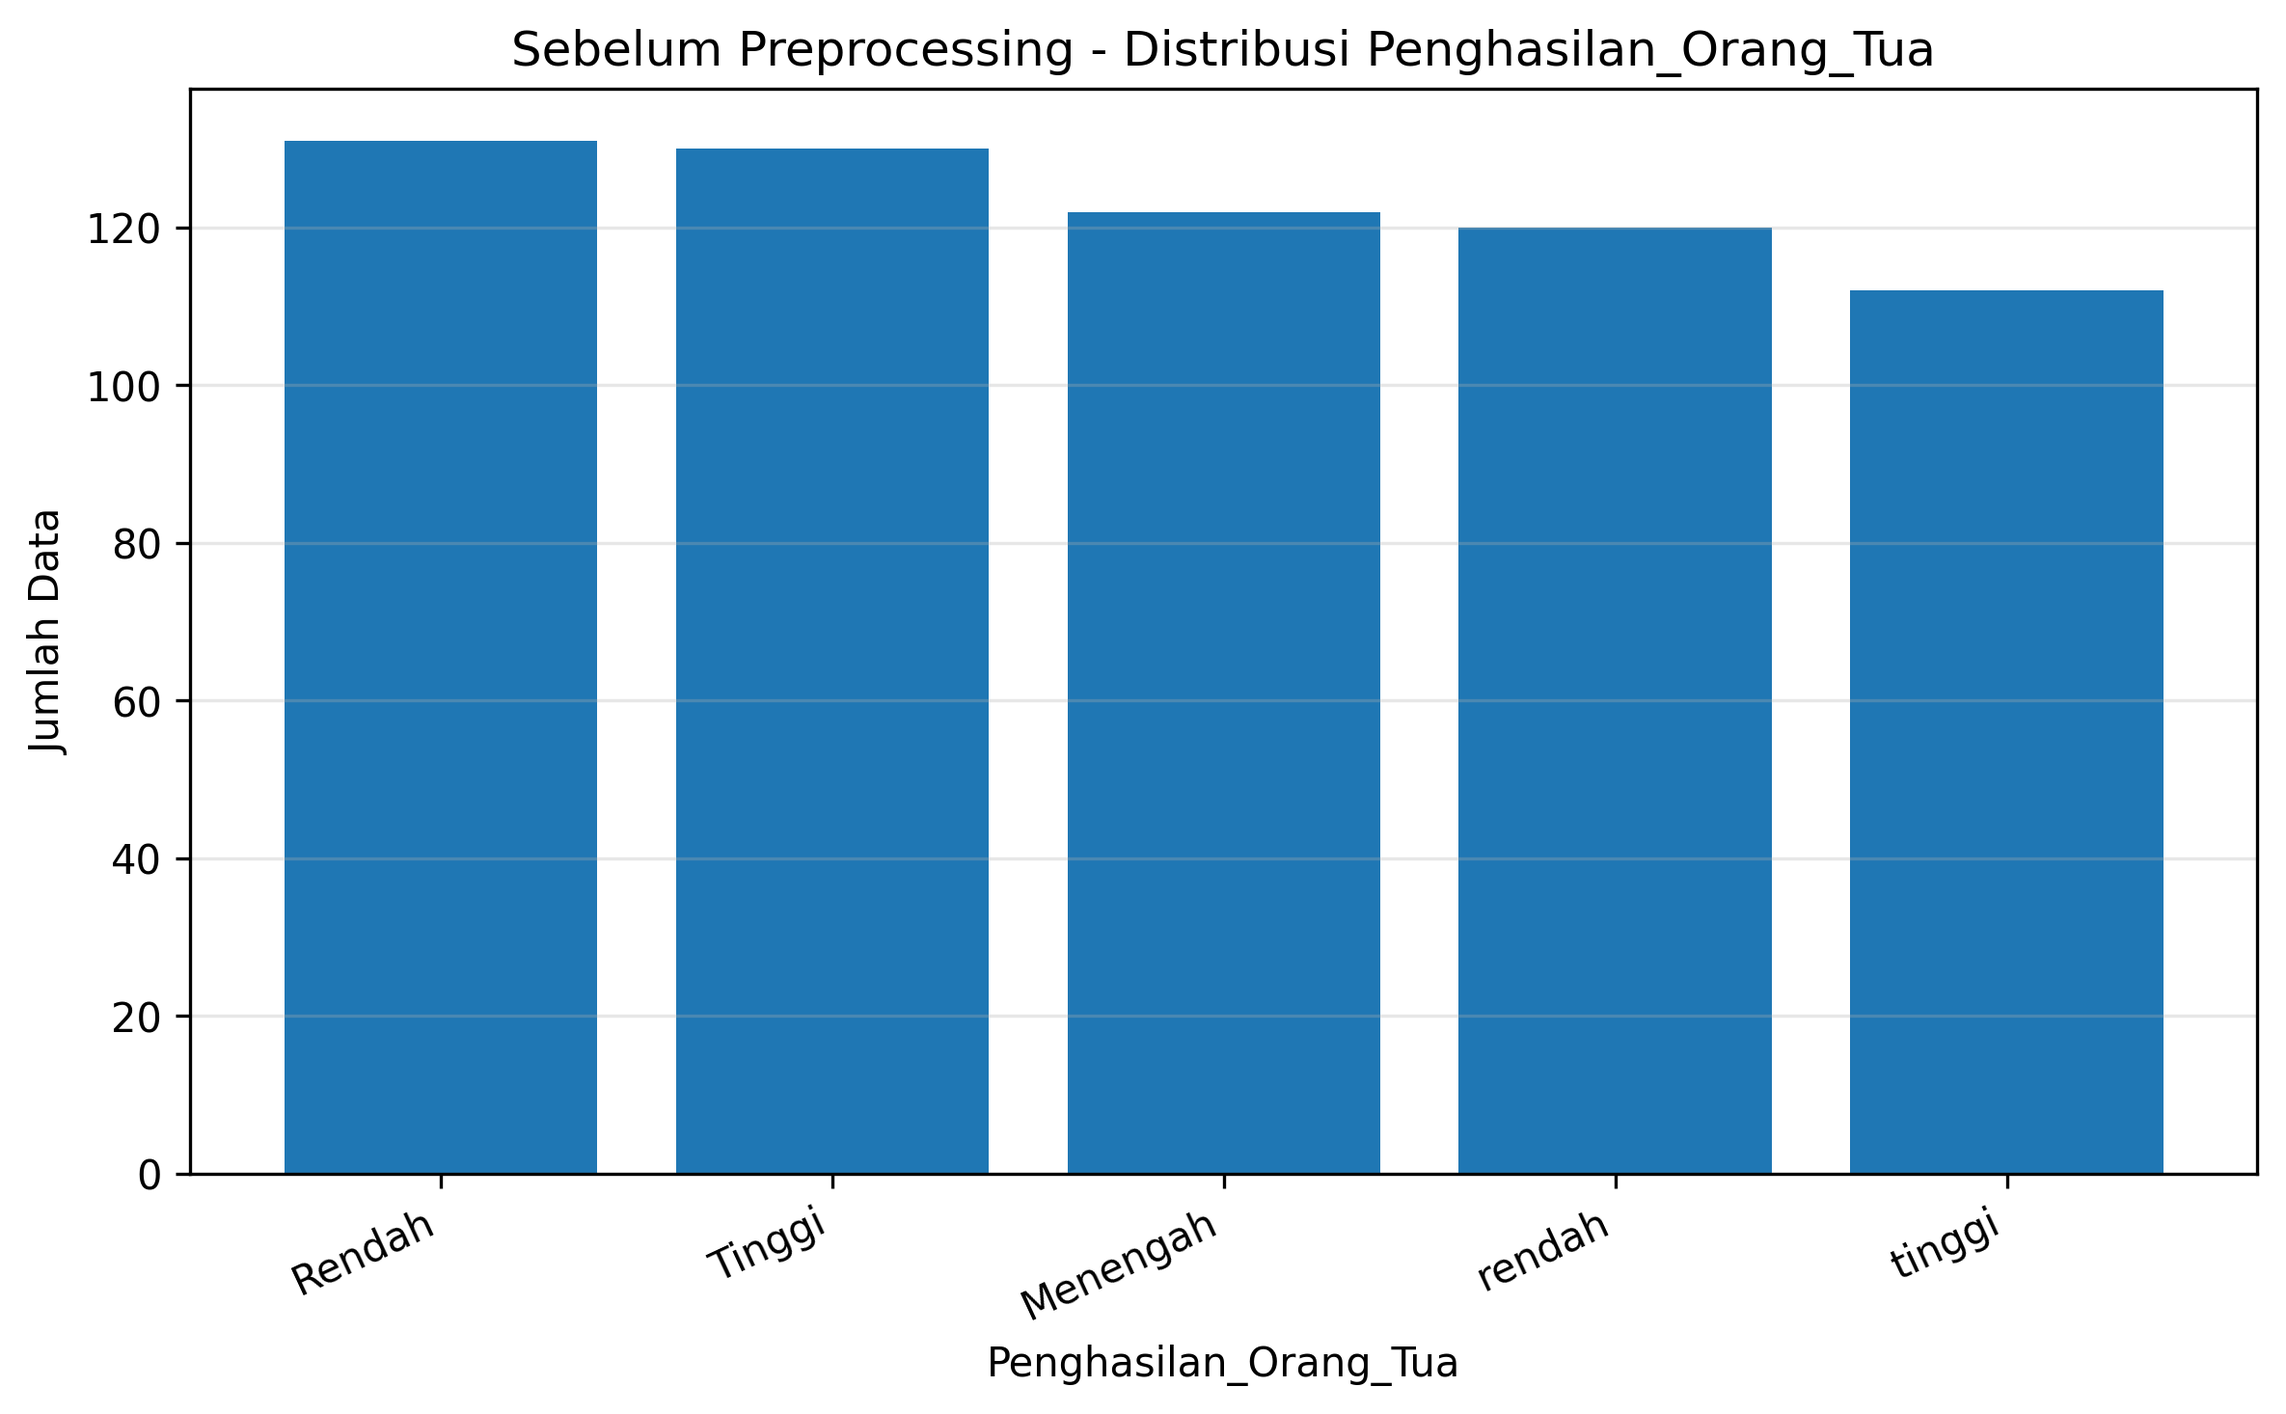
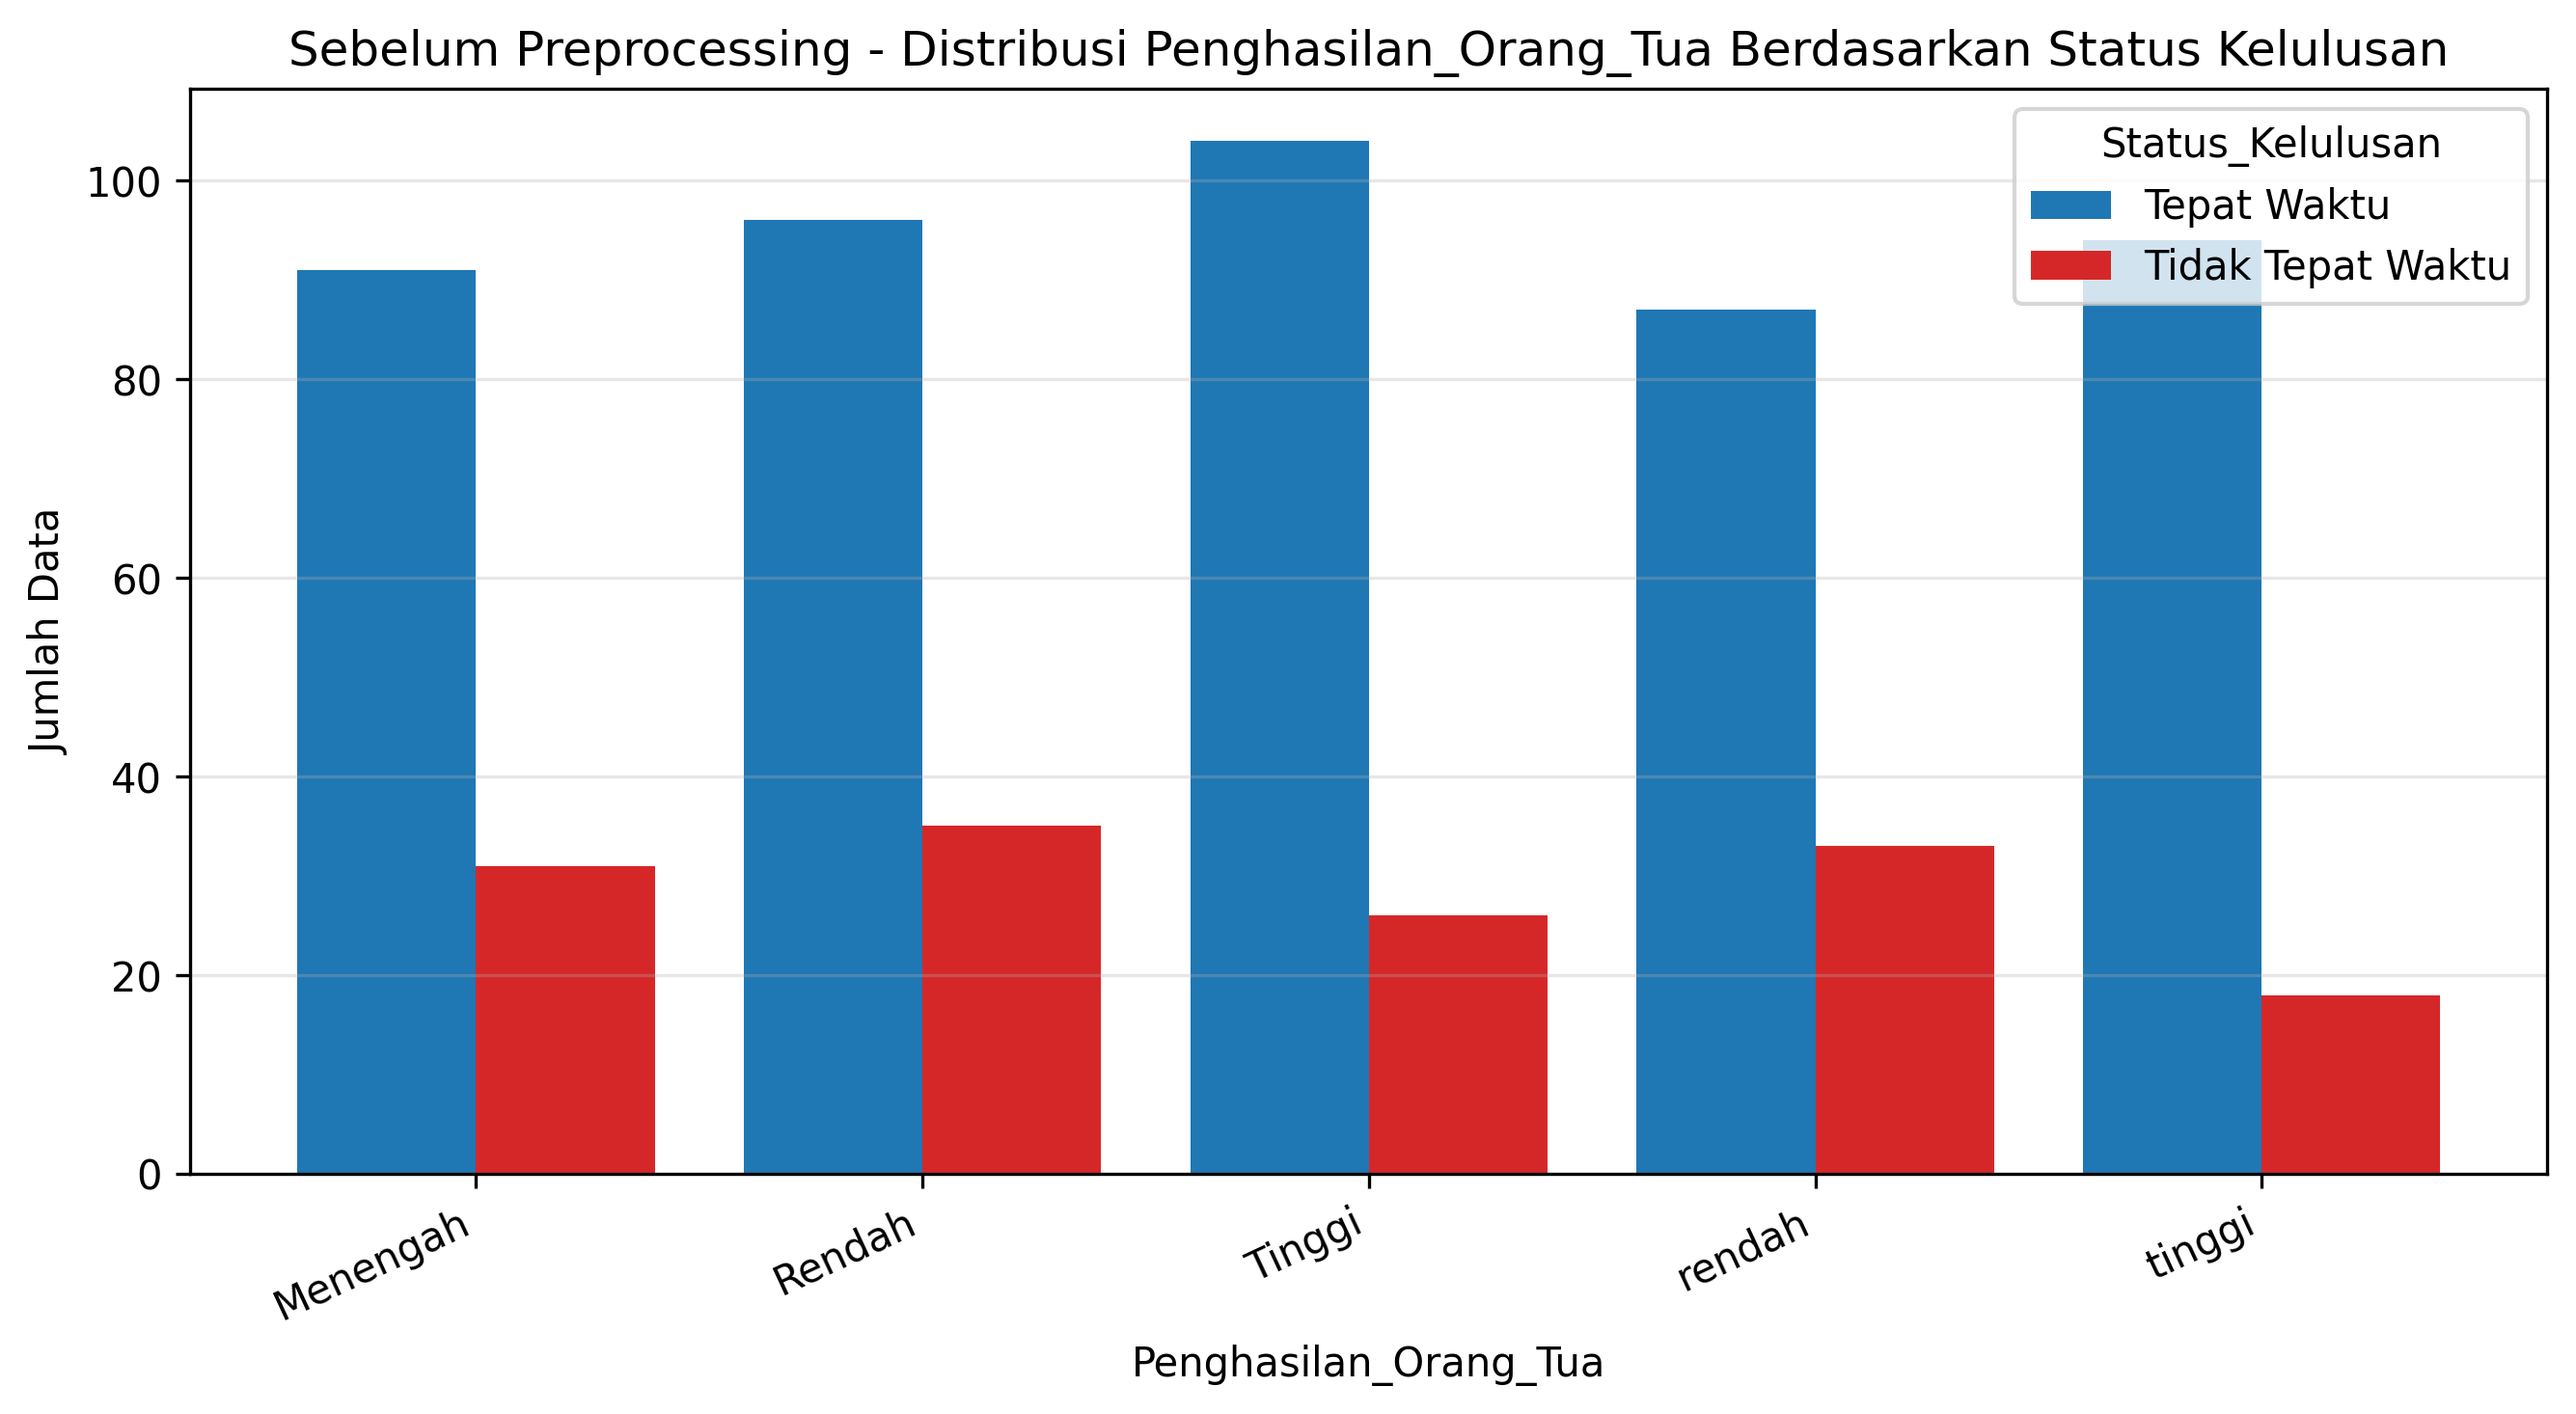
Update revisi preprocessing visualisasi dan model

diff --git a/src/visualization.py b/src/visualization.py
@@ -14,6 +14,20 @@ from config import (
 
 
 # ============================================================
+# KONFIGURASI WARNA
+# ============================================================
+
+STATUS_COLORS = {
+    "Tepat Waktu": "#1f77b4",        # biru
+    "Lulus": "#1f77b4",              # biru, jika label memakai kata Lulus
+    "Tidak Tepat Waktu": "#d62728",  # merah
+    "Tidak Lulus": "#d62728",        # merah, jika label memakai kata Tidak Lulus
+}
+
+DEFAULT_COLOR = "#7f7f7f"
+
+
+# ============================================================
 # FUNGSI DASAR VISUALISASI
 # ============================================================
 
@@ -34,37 +48,112 @@ def format_filename(column_name: str) -> str:
     return column_name.lower().replace(" ", "_")
 
 
-def plot_numeric_distribution(dataframe: pd.DataFrame, column: str, output_dir, title_prefix: str):
+def get_status_color(status_value):
     """
-    Membuat histogram untuk fitur numerik.
+    Mengambil warna berdasarkan label status kelulusan.
+    """
+    status_text = str(status_value)
+    return STATUS_COLORS.get(status_text, DEFAULT_COLOR)
+
+
+# ============================================================
+# VISUALISASI DISTRIBUSI FITUR BERDASARKAN STATUS KELULUSAN
+# ============================================================
+
+def plot_target_distribution(dataframe: pd.DataFrame, output_dir, title_prefix: str):
+    """
+    Membuat bar chart distribusi target Status_Kelulusan.
+    Warna:
+    - Tepat Waktu / Lulus = biru
+    - Tidak Tepat Waktu / Tidak Lulus = merah
     """
     plt.figure(figsize=(8, 5))
 
-    series = dataframe[column].dropna()
+    counts = dataframe[TARGET_COLUMN].fillna("Missing").astype(str).value_counts()
+    colors = [get_status_color(label) for label in counts.index]
 
-    plt.hist(series, bins=20, edgecolor="black")
-    plt.title(f"{title_prefix} - Distribusi {column}")
+    plt.bar(counts.index, counts.values, color=colors)
+    plt.title(f"{title_prefix} - Distribusi {TARGET_COLUMN}")
+    plt.xlabel(TARGET_COLUMN)
+    plt.ylabel("Jumlah Data")
+    plt.xticks(rotation=15, ha="right")
+    plt.grid(axis="y", alpha=0.3)
+
+    output_path = output_dir / f"distribusi_{format_filename(TARGET_COLUMN)}.png"
+    save_current_figure(output_path)
+
+
+def plot_numeric_distribution_by_target(dataframe: pd.DataFrame, column: str, output_dir, title_prefix: str):
+    """
+    Membuat histogram fitur numerik dengan pembeda warna berdasarkan Status_Kelulusan.
+    """
+    plt.figure(figsize=(8, 5))
+
+    target_values = dataframe[TARGET_COLUMN].dropna().astype(str).unique()
+
+    for target_value in target_values:
+        subset = dataframe[dataframe[TARGET_COLUMN].astype(str) == target_value]
+        series = subset[column].dropna()
+
+        if series.empty:
+            continue
+
+        plt.hist(
+            series,
+            bins=20,
+            alpha=0.65,
+            edgecolor="black",
+            label=target_value,
+            color=get_status_color(target_value),
+        )
+
+    plt.title(f"{title_prefix} - Distribusi {column} Berdasarkan Status Kelulusan")
     plt.xlabel(column)
     plt.ylabel("Frekuensi")
+    plt.legend(title=TARGET_COLUMN)
     plt.grid(axis="y", alpha=0.3)
 
     output_path = output_dir / f"distribusi_{format_filename(column)}.png"
     save_current_figure(output_path)
 
 
-def plot_categorical_distribution(dataframe: pd.DataFrame, column: str, output_dir, title_prefix: str):
+def plot_categorical_distribution_by_target(dataframe: pd.DataFrame, column: str, output_dir, title_prefix: str):
     """
-    Membuat bar chart untuk fitur kategorikal dan target.
+    Membuat bar chart fitur kategorikal dengan pembeda warna berdasarkan Status_Kelulusan.
     """
-    plt.figure(figsize=(8, 5))
+    plot_data = dataframe.copy()
+    plot_data[column] = plot_data[column].fillna("Missing").astype(str)
+    plot_data[TARGET_COLUMN] = plot_data[TARGET_COLUMN].fillna("Missing").astype(str)
 
-    counts = dataframe[column].fillna("Missing").astype(str).value_counts()
+    cross_tab = pd.crosstab(plot_data[column], plot_data[TARGET_COLUMN])
 
-    plt.bar(counts.index, counts.values)
-    plt.title(f"{title_prefix} - Distribusi {column}")
+    plt.figure(figsize=(9, 5))
+
+    x_positions = range(len(cross_tab.index))
+    target_labels = list(cross_tab.columns)
+    total_targets = len(target_labels)
+
+    if total_targets == 0:
+        return
+
+    bar_width = 0.8 / total_targets
+
+    for index, target_label in enumerate(target_labels):
+        offset = (index - (total_targets - 1) / 2) * bar_width
+
+        plt.bar(
+            [x + offset for x in x_positions],
+            cross_tab[target_label],
+            width=bar_width,
+            label=target_label,
+            color=get_status_color(target_label),
+        )
+
+    plt.title(f"{title_prefix} - Distribusi {column} Berdasarkan Status Kelulusan")
     plt.xlabel(column)
     plt.ylabel("Jumlah Data")
-    plt.xticks(rotation=25, ha="right")
+    plt.xticks(list(x_positions), cross_tab.index, rotation=25, ha="right")
+    plt.legend(title=TARGET_COLUMN)
     plt.grid(axis="y", alpha=0.3)
 
     output_path = output_dir / f"distribusi_{format_filename(column)}.png"
@@ -74,16 +163,19 @@ def plot_categorical_distribution(dataframe: pd.DataFrame, column: str, output_d
 def visualize_feature_distributions(dataframe: pd.DataFrame, output_dir, title_prefix: str):
     """
     Membuat visualisasi distribusi seluruh fitur dan target.
-    - Fitur numerik divisualisasikan dengan histogram.
-    - Fitur kategorikal dan target divisualisasikan dengan bar chart.
+
+    Revisi:
+    - Fitur numerik divisualisasikan berdasarkan Status_Kelulusan.
+    - Fitur kategorikal divisualisasikan berdasarkan Status_Kelulusan.
+    - Target Status_Kelulusan diberi warna biru dan merah.
     """
     for column in NUMERIC_FEATURES:
-        plot_numeric_distribution(dataframe, column, output_dir, title_prefix)
+        plot_numeric_distribution_by_target(dataframe, column, output_dir, title_prefix)
 
     for column in CATEGORICAL_FEATURES:
-        plot_categorical_distribution(dataframe, column, output_dir, title_prefix)
+        plot_categorical_distribution_by_target(dataframe, column, output_dir, title_prefix)
 
-    plot_categorical_distribution(dataframe, TARGET_COLUMN, output_dir, title_prefix)
+    plot_target_distribution(dataframe, output_dir, title_prefix)
 
 
 def visualize_distributions_before_preprocessing(dataframe: pd.DataFrame):
@@ -122,6 +214,7 @@ def visualize_duplicate_audit(duplicate_audit: pd.DataFrame):
     plt.bar(
         duplicate_audit["Tahap"],
         duplicate_audit["Jumlah_Duplikat_Penuh"],
+        color="#7f7f7f",
     )
 
     plt.title("Audit Duplikat Penuh")
@@ -162,7 +255,7 @@ def visualize_row_count_audit(duplicate_audit: pd.DataFrame, conflict_audit: pd.
     audit_df = pd.DataFrame(rows)
 
     plt.figure(figsize=(8, 5))
-    plt.bar(audit_df["Tahap"], audit_df["Jumlah_Baris"])
+    plt.bar(audit_df["Tahap"], audit_df["Jumlah_Baris"], color="#7f7f7f")
 
     plt.title("Audit Jumlah Baris Data")
     plt.xlabel("Tahap")
@@ -183,6 +276,7 @@ def visualize_conflict_id_audit(conflict_audit: pd.DataFrame):
     plt.bar(
         conflict_audit["Tahap"],
         conflict_audit["Jumlah_ID_Bermasalah"],
+        color="#7f7f7f",
     )
 
     plt.title("Audit Konflik ID Mahasiswa")
@@ -215,6 +309,7 @@ def visualize_missing_value_audit(missing_audit: pd.DataFrame):
         plot_df["Missing_Sebelum"],
         width=width,
         label="Sebelum Imputasi",
+        color="#d62728",
     )
 
     plt.bar(
@@ -222,6 +317,7 @@ def visualize_missing_value_audit(missing_audit: pd.DataFrame):
         plot_df["Missing_Sesudah"],
         width=width,
         label="Sesudah Imputasi",
+        color="#1f77b4",
     )
 
     plt.title("Audit Missing Value")
@@ -265,19 +361,21 @@ def visualize_category_standardization(category_audit: pd.DataFrame):
         plt.figure(figsize=(10, 5))
 
         if len(stages) == 1:
-            plt.bar(x, pivot_data[stages[0]], width=width, label=stages[0])
+            plt.bar(x, pivot_data[stages[0]], width=width, label=stages[0], color="#7f7f7f")
         else:
             plt.bar(
                 [position - width / 2 for position in x],
                 pivot_data[stages[0]],
                 width=width,
                 label=stages[0],
+                color="#d62728",
             )
             plt.bar(
                 [position + width / 2 for position in x],
                 pivot_data[stages[1]],
                 width=width,
                 label=stages[1],
+                color="#1f77b4",
             )
 
         plt.title(f"Audit Standardisasi Kategori - {column}")
@@ -312,6 +410,7 @@ def visualize_iqr_audit(iqr_result: pd.DataFrame):
         iqr_result["Outlier_Sebelum"],
         width=width,
         label="Sebelum Capping",
+        color="#d62728",
     )
 
     plt.bar(
@@ -319,6 +418,7 @@ def visualize_iqr_audit(iqr_result: pd.DataFrame):
         iqr_result["Outlier_Sesudah"],
         width=width,
         label="Sesudah Capping",
+        color="#1f77b4",
     )
 
     plt.title("Audit Outlier IQR")
@@ -338,7 +438,7 @@ def visualize_split_data(train_count: int, test_count: int):
     """
     plt.figure(figsize=(7, 5))
 
-    plt.bar(["Training", "Testing"], [train_count, test_count])
+    plt.bar(["Training", "Testing"], [train_count, test_count], color=["#1f77b4", "#d62728"])
 
     plt.title("Audit Split Data")
     plt.xlabel("Jenis Data")
@@ -381,6 +481,7 @@ def visualize_model_comparison(evaluation_df: pd.DataFrame):
         decision_tree_values,
         width=width,
         label="Decision Tree",
+        color="#1f77b4",
     )
 
     plt.bar(
@@ -388,6 +489,7 @@ def visualize_model_comparison(evaluation_df: pd.DataFrame):
         random_forest_values,
         width=width,
         label="Random Forest",
+        color="#ff7f0e",
     )
 
     plt.title("Perbandingan Evaluasi Model")
@@ -448,7 +550,7 @@ def visualize_feature_importance(feature_importance_df: pd.DataFrame):
 
     plt.figure(figsize=(9, 5))
 
-    plt.barh(sorted_df["Feature"], sorted_df["Importance"])
+    plt.barh(sorted_df["Feature"], sorted_df["Importance"], color="#1f77b4")
 
     plt.title("Feature Importance Random Forest")
     plt.xlabel("Importance")
